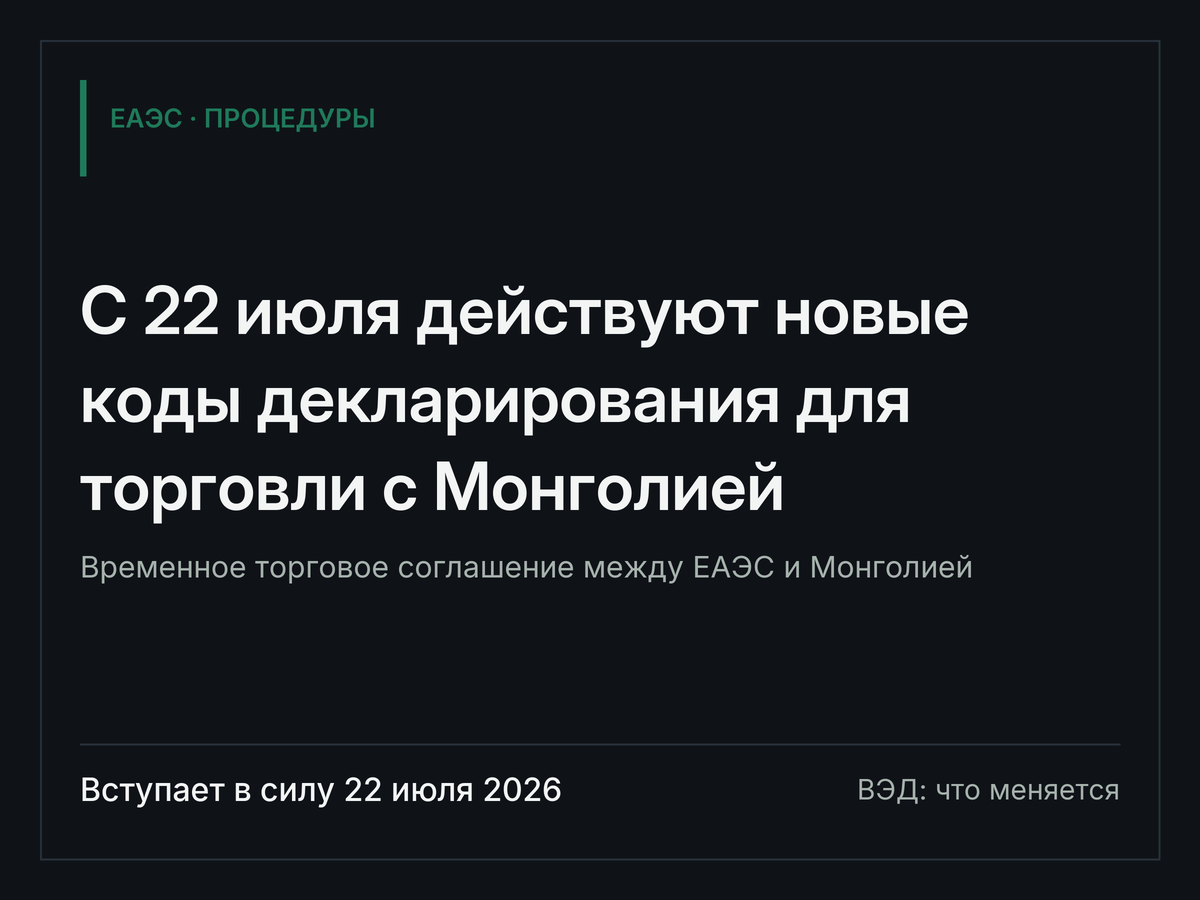
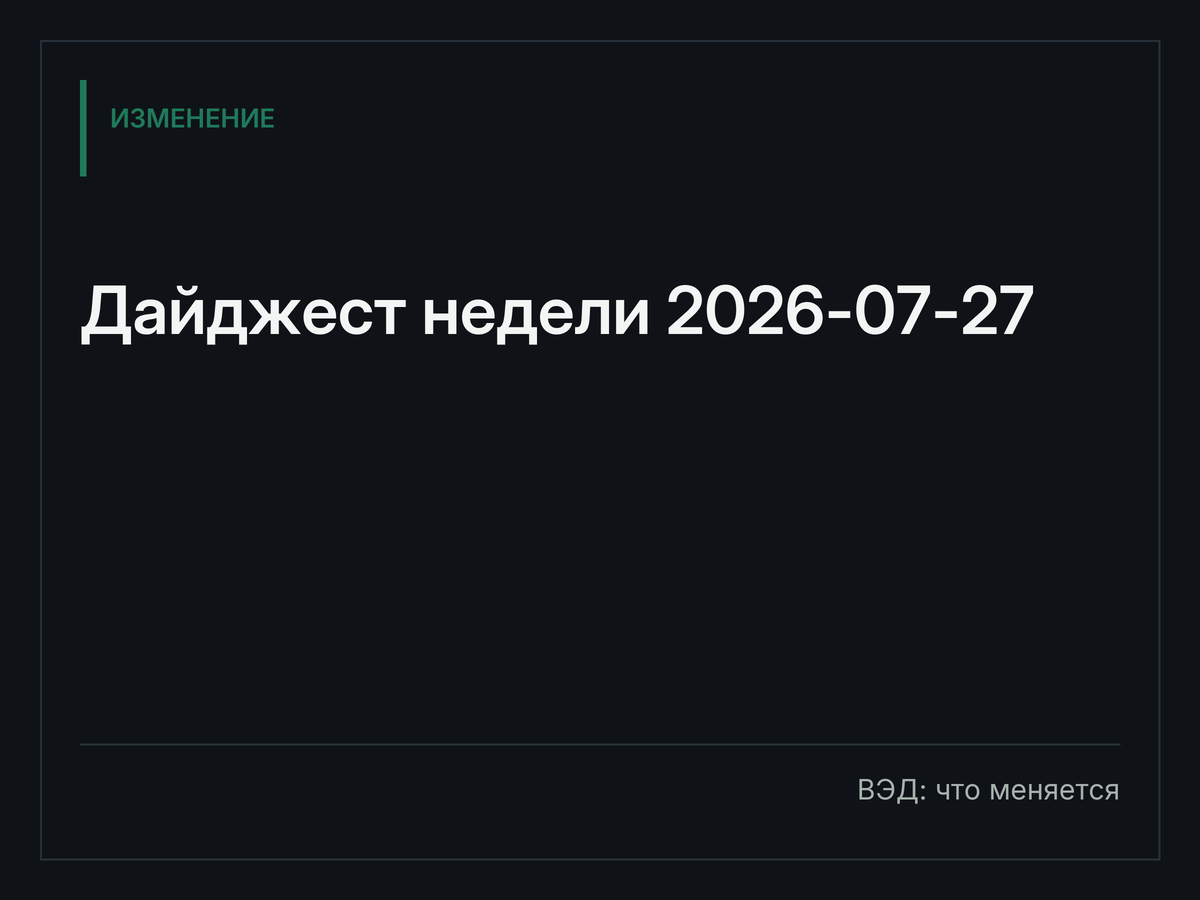
детерминированный uuid для нечисловых item_id

diff --git a/tools/publish_outbox.py b/tools/publish_outbox.py
@@ -139,7 +139,10 @@ def _mark_sent(post, mid, chat):
     url = os.environ.get("DATABASE_URL")
     if not url:
         return
+    import re as _re, uuid as _uuid
     iid = str(post.get("item_id") or "")
+    if not _re.match(r"^[0-9a-fA-F-]{36}$", iid):
+        iid = str(_uuid.uuid5(_uuid.NAMESPACE_URL, "dayfacto:" + iid))
     try:
         db = create_engine(url)
         with db.begin() as c:
